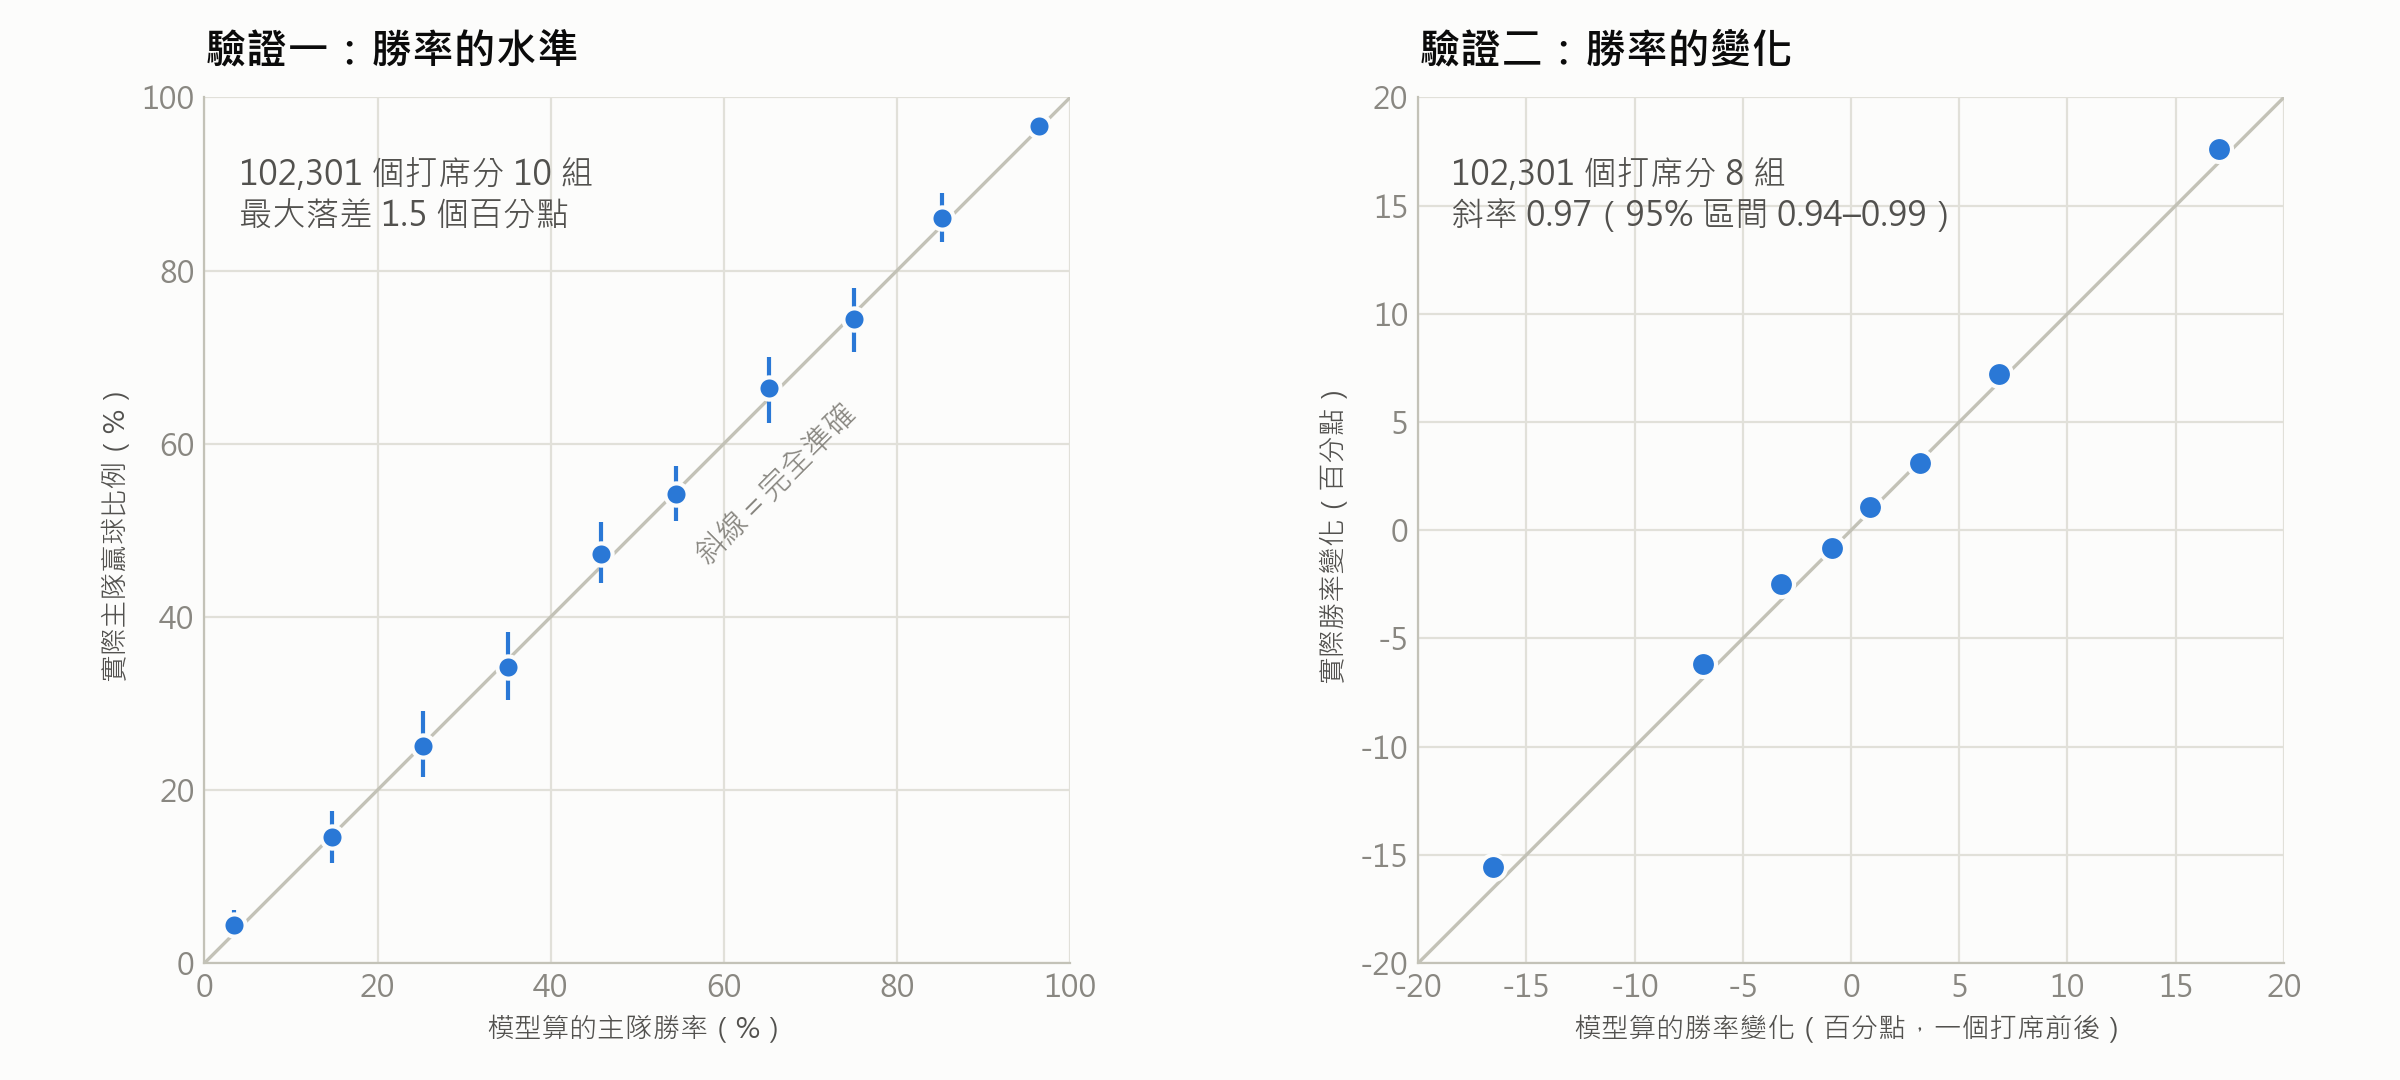
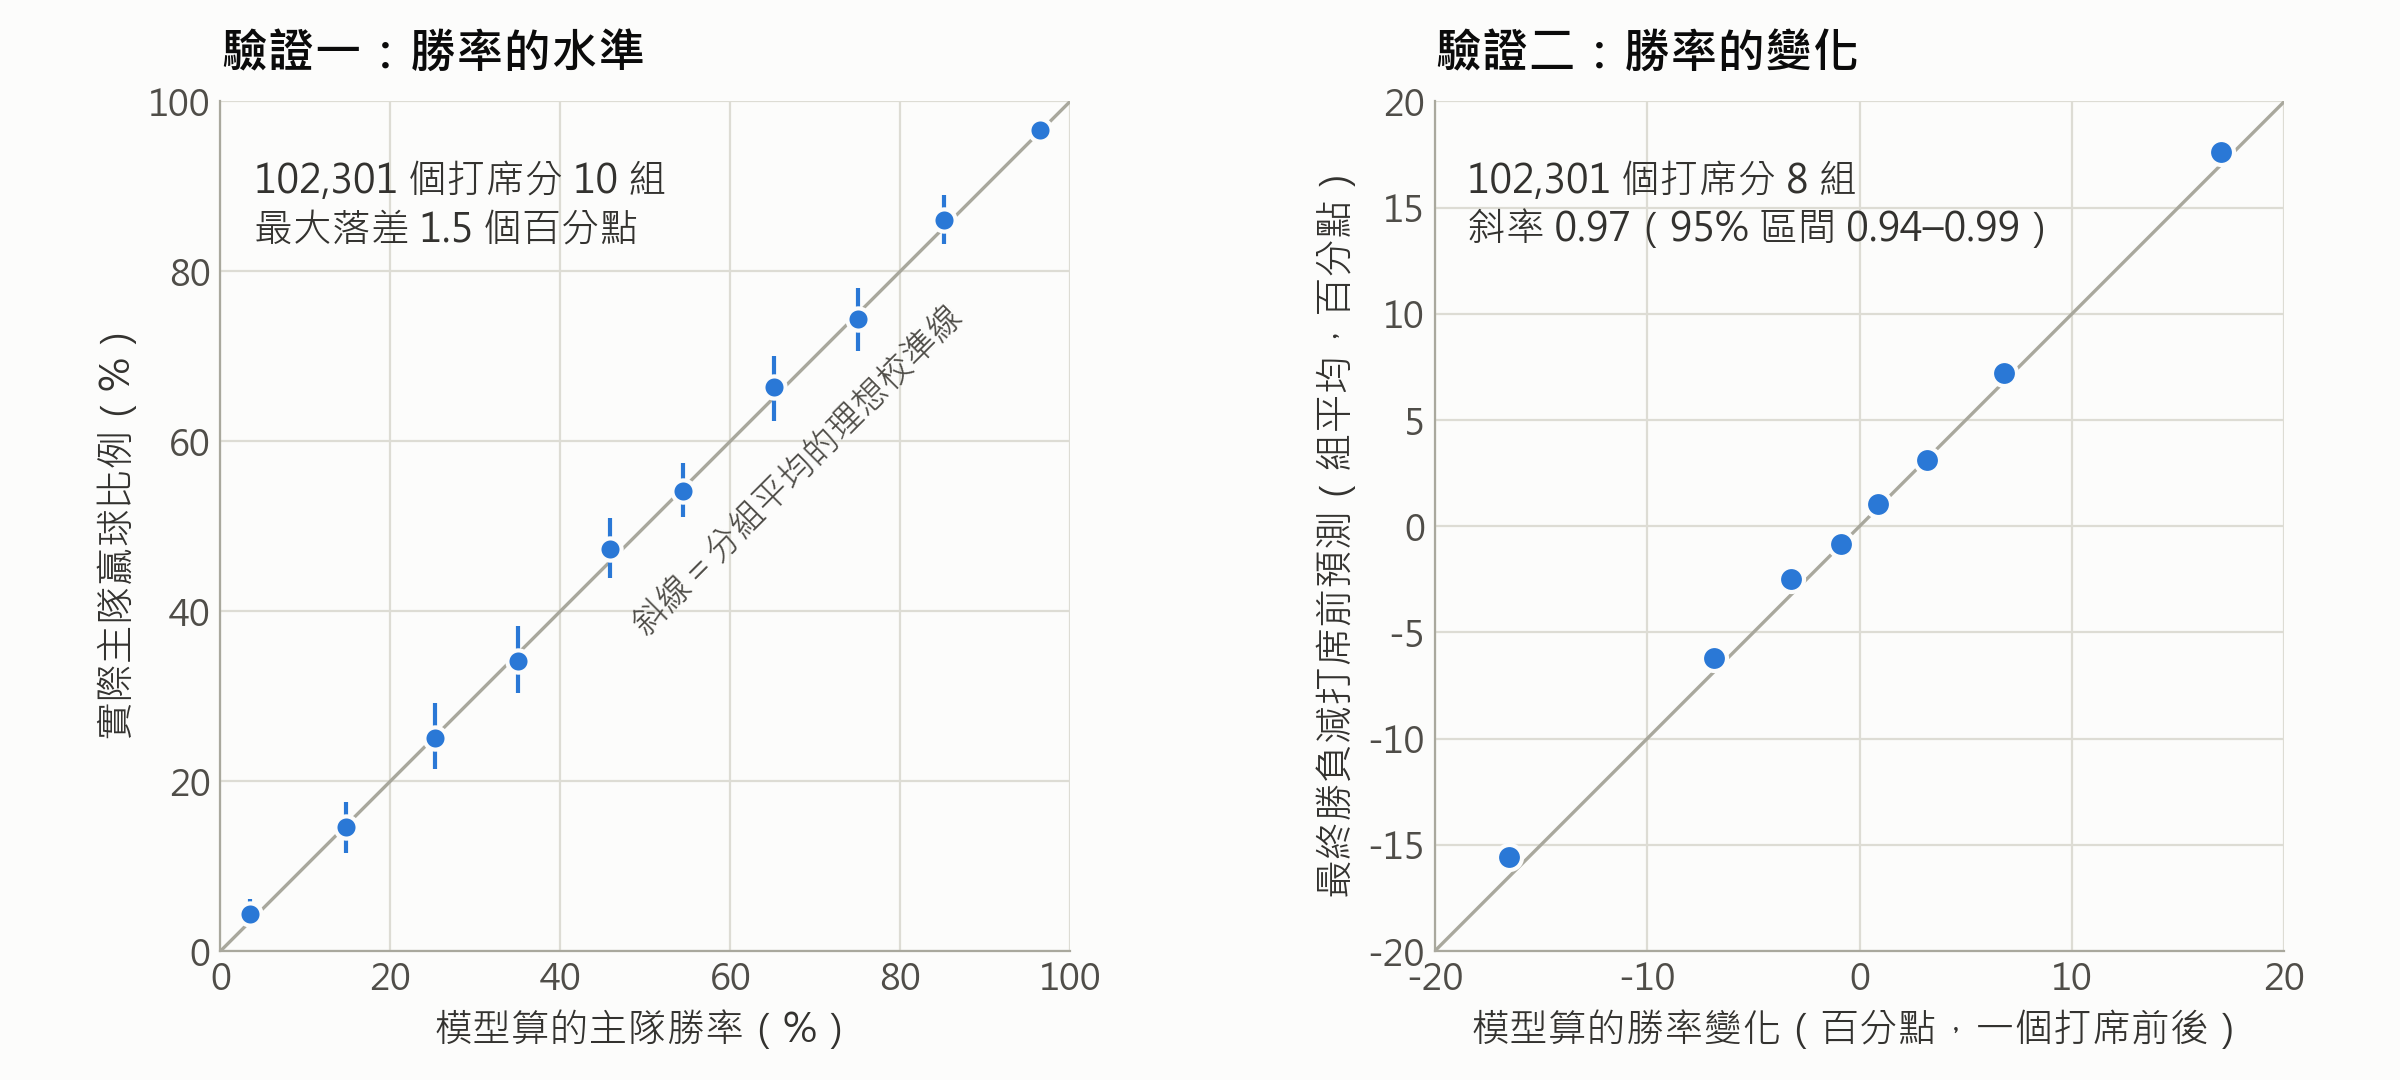
案例寫清楚主客場；圖表字加深、放大

diff --git a/index.html b/index.html
@@ -150,10 +150,10 @@ footer{border-top:1px solid var(--line);margin-top:50px;padding:20px 0 90px;colo
 
 <section id="story">
 <h2>一個判決，兩條路</h2>
-<p class="prose">2026-06-07，味全龍對台鋼雄鷹。8 局下兩出局、一二壘有人，台鋼落後 1 分。二壘跑者衝本壘，原判安全、追平。味全的總教練有 30 秒決定要不要挑戰。</p>
+<p class="prose">2026-06-07，客隊味全龍、主隊台鋼雄鷹。8 局下兩出局、一二壘有人，進攻的台鋼落後 1 分。二壘跑者衝本壘，原判安全、追平。防守的味全總教練有 30 秒決定要不要挑戰。</p>
 <div class="panel"><div class="story">
 <svg viewBox="0 0 420 250" role="img" aria-label="判安全時台鋼勝率 62.1%，判出局時 12.7%，相差 49.4 個百分點">
-<text x="8" y="22" font-size="13" fill="currentColor" opacity=".7">台鋼雄鷹的勝率</text>
+<text x="8" y="22" font-size="13" fill="currentColor" opacity=".8">台鋼雄鷹（主隊）的勝率</text>
 <text x="8" y="62" font-size="15" fill="currentColor">維持安全（追平）</text>
 <rect x="8" y="70" height="30" rx="5" class="bar" id="b1" width="0" fill="#1d7a80"/><text x="16" y="91" font-size="16" font-weight="700" fill="#fff" class="fade" id="t1" opacity="0">62.1%</text>
 <text x="8" y="132" font-size="15" fill="currentColor">改判出局（半局結束）</text>
